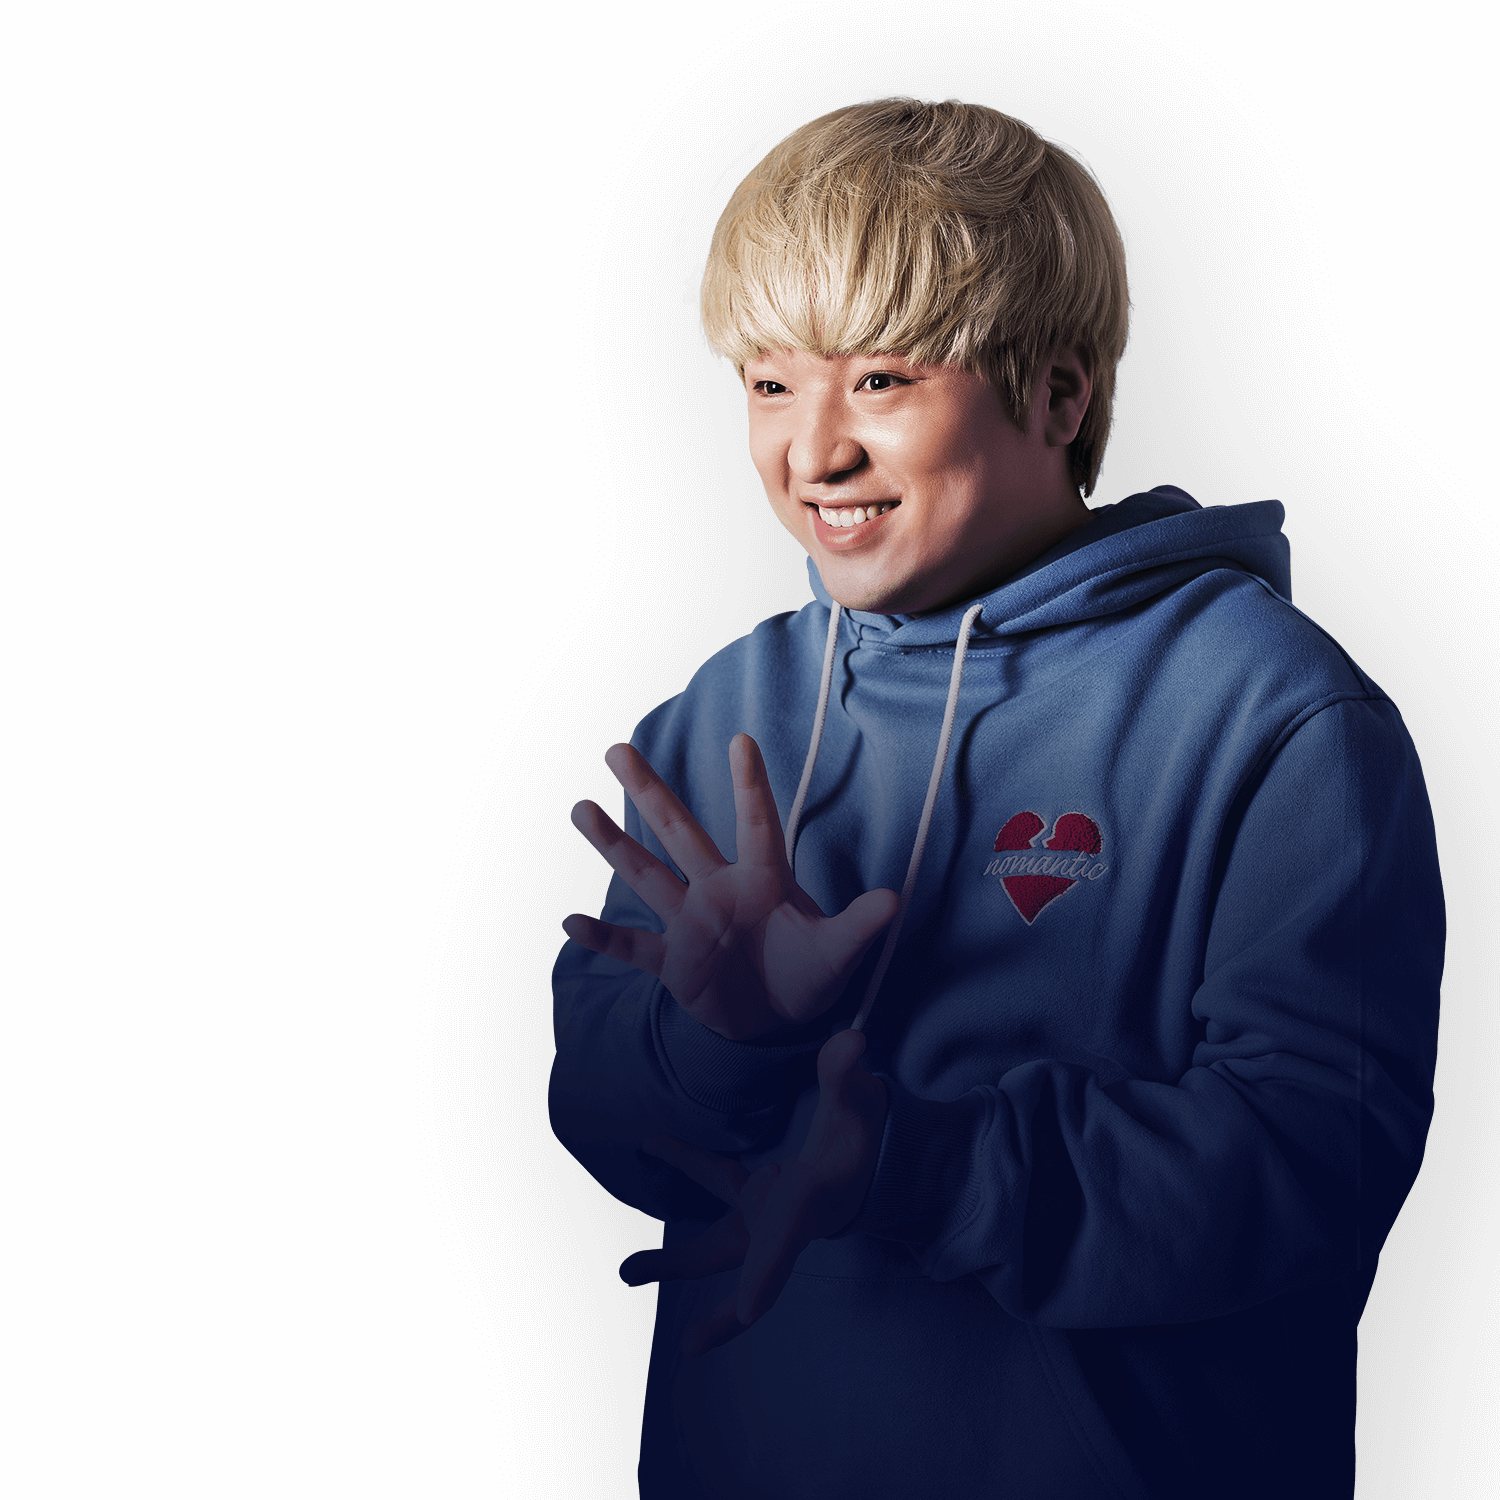
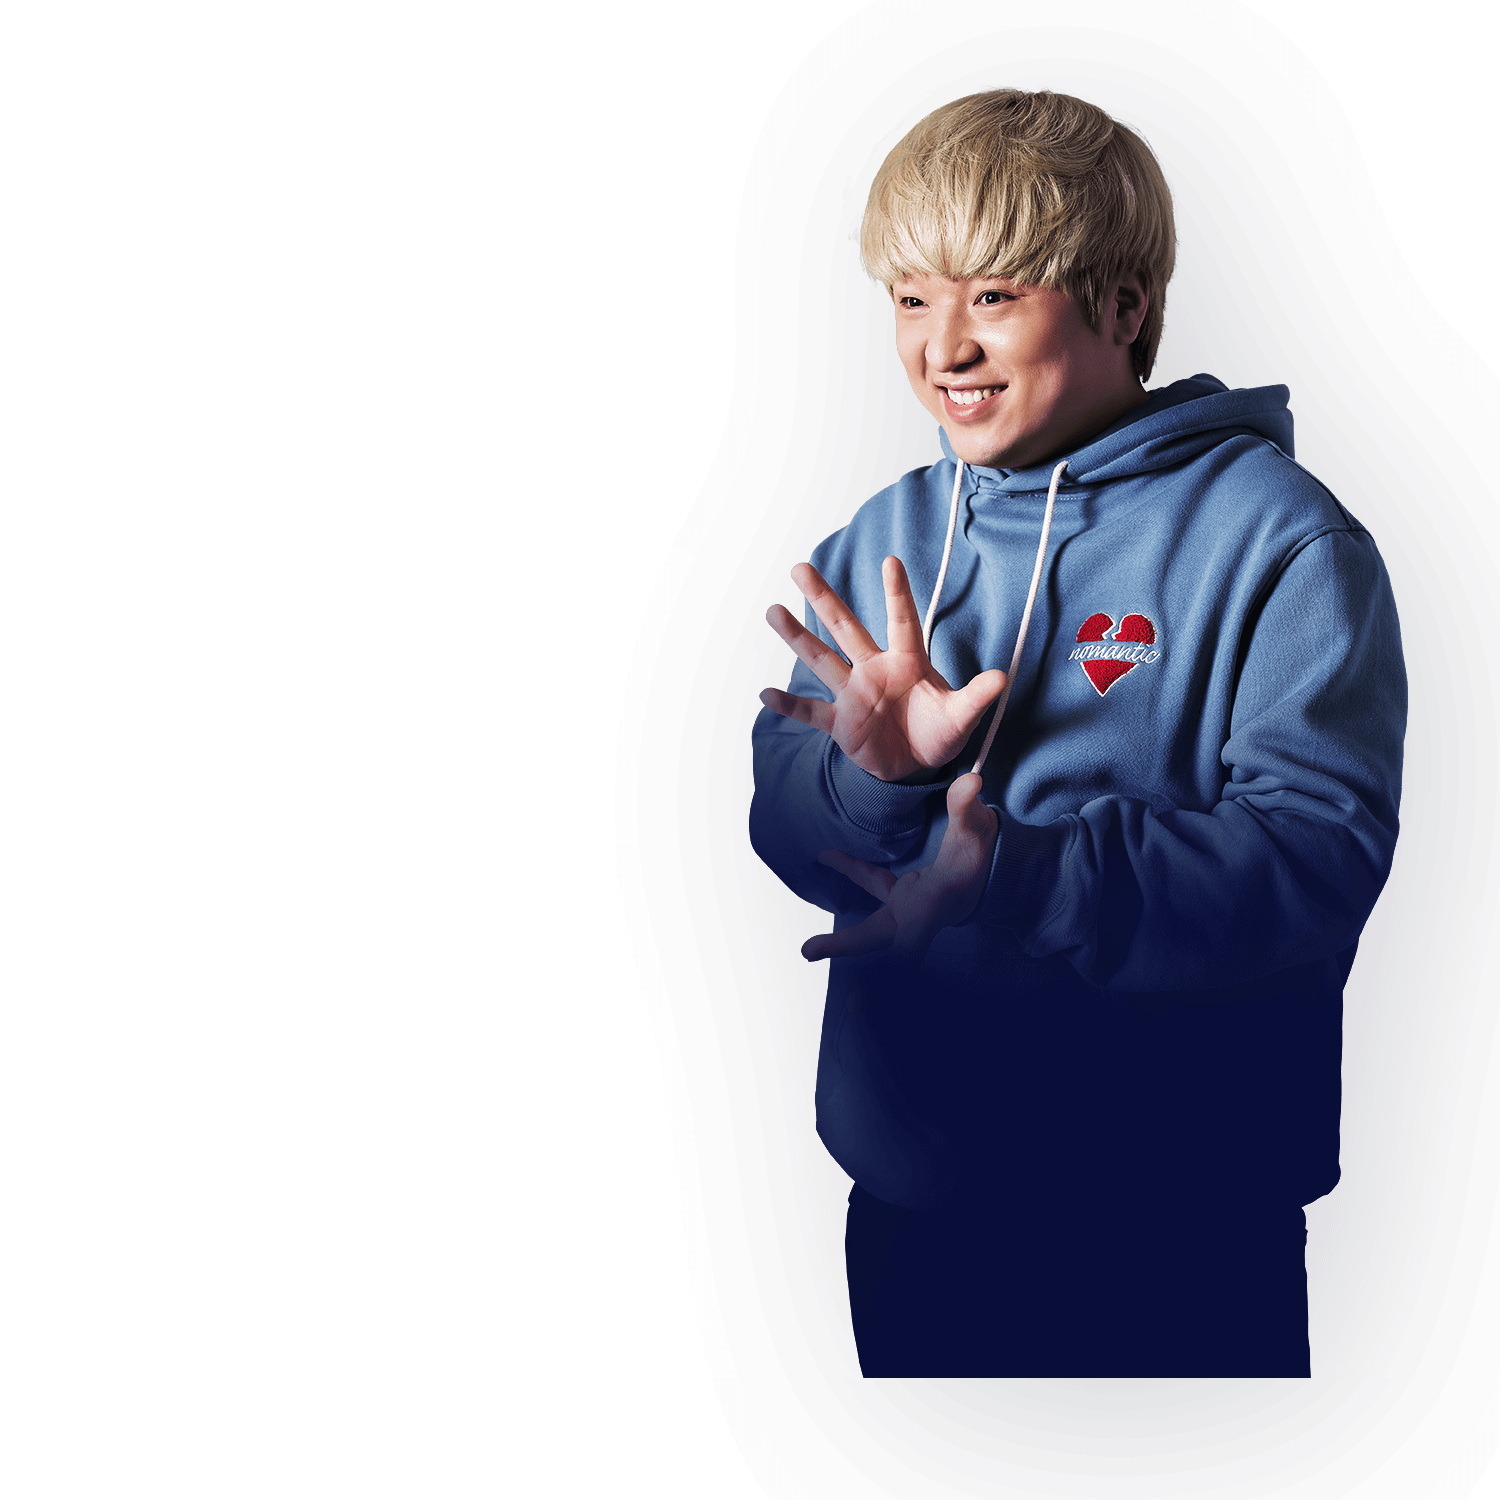
mo추가

diff --git a/css/common-mo.css b/css/common-mo.css
@@ -14,7 +14,7 @@ table caption {overflow: hidden; width: 0; height: 0;}
 i[class^="fa"] {position: relative; display: inline-block; vertical-align: middle; overflow: hidden;}
 i[class^="fa"] span {position: absolute; left: -9999px;}
 .ir-hidden {position: absolute; left: -9999px;}
-.mobile {display: none !important;}
+.mobile {display: block !important;}
 br.only-m {content: '';}
 br.only-m::after {content: '\00a0';}
 @import url('https://fonts.googleapis.com/css2?family=Noto+Sans+KR:wght@100;300;400;500;700;900&display=swap');
@@ -29,13 +29,14 @@ body {font-family: 'NotoSansKR', sans-serif; font-weight: 900; font-size: 16px; 
 .inner-wrap {padding: 0 8.33333vw;}
 .flex-contain {display: flex;}
 .block-mo{ display: block;}
-.bg-wrap {background-color: #2133b5;  position: relative;}
+.bg-wrap {background-color: #2133b5;  position: relative; overflow: hidden;}
 .content-tit{ padding-bottom: 100px;}
 
 #header {position: absolute; top: 0; left: 50%; transform: translate(-50%, 0);  width: 100%; z-index: 999; }
 #header .flex-contain {justify-content: space-between; align-items: center; padding-top: 20px;}
 #header .logo-wrap {width: 160px;}
 #header .gnb-wrap{display: none;}
+#header .gnb-wrap.on {display: block; width: 100vw; height: 100%; min-height: 100vh; background-color: #000; position: absolute; top: 0; left: 0;}
 #header .gnb-wrap > ul {display: block;}
 #header .gnb-wrap .top-gnb > li {font-size: 12px;}
 #header .gnb-wrap .top-gnb > li:not(:last-child) {padding-right: 20px;}
@@ -44,39 +45,53 @@ body {font-family: 'NotoSansKR', sans-serif; font-weight: 900; font-size: 16px; 
 #header .gnb-wrap .main-gnb > li > a {padding: 5px;}
 #header .gnb-wrap .main-gnb > li:hover  > a{background-color: #fff; color: #1a2939;}
 #header .gnb-wrap .main-gnb > li > ul {display: none;}
-#header .menu-mo {font-size: 50px;}
+#header .menu-mo {font-size: 3x0px;}
 
 
 #main .content-wrap {position: relative;}
 #main .bg-deco-red {position: absolute; width: 0; height: 0; border-style: solid; border-width: 100px 200px 0 0; border-color: #d03251 transparent transparent transparent; }
-#main .content-wrap > ul.slick-wrap {margin-bottom: 150px;}
-#main .content-wrap > ul.slick-wrap > li { padding: 200px 0 100px; position: relative; display: none;}
-#main .content-wrap > ul.slick-wrap > li:first-child {display: block;}
-#main .content-wrap > ul.slick-wrap > li .slick-txt-wrap {padding-top: 60%; height: 45vw;}
-#main .content-wrap > ul.slick-img-wrap > li {position: absolute; top: 0; right: 0; background-size: 200vw; background-position: right top; width: 100vw; height: 200%; z-index: 0;}
-#main .content-wrap > ul.slick-img-wrap > li:nth-child(1) {background-image: url('../images/slick_02.png');}
-#main .content-wrap > ul.slick-img-wrap > li:nth-child(2) {background-image: url('../images/slick_01.png');}
-#main .content-wrap > ul.slick-img-wrap > li:nth-child(3) {background-image: url('../images/slick_03_19.png'); background-position-x: center;}
+#main .bg-deco-blue {position: absolute; width: 0; height: 0; bottom: 0; right: 0; border-style: solid; border-width: 0 0 100px 200px; border-color: transparent transparent #2133b5 transparent;}
+#main .content-wrap > ul.slick-txt-wrap {margin-bottom: 150px;}
+#main .content-wrap > ul.slick-img-wrap > li.on {opacity: 1; transform: translate(0, 0) scale3d(1, 1, 1);; transition: transform .75s 0s cubic-bezier(0.165, 0.84, 0.44, 1),opacity .4s 0s;}
+#main .content-wrap > ul.slick-img-wrap > li.off {opacity: 0; transform: translate(10%, -5%) scale3d(1.15, 1.1, 15);; transition: transform .4s 0s cubic-bezier(0.445, 0.05, 0.55, 0.95),opacity .2s 0s;}
+#main .content-wrap > ul.slick-img-wrap > li {position: absolute; top: 0; right: 0; background-size: auto 80%; background-repeat: no-repeat; background-position: top center; width: 100vw; height: 1000px; z-index: 0;  overflow: hidden;}
+#main .content-wrap > ul.slick-img-wrap > li:nth-child(1) {background-image: url('../images/slick_02_mo.png');}
+#main .content-wrap > ul.slick-img-wrap > li:nth-child(2) {background-image: url('../images/slick_01_mo.png');}
+#main .content-wrap > ul.slick-img-wrap > li:nth-child(3) {background-image: url('../images/slick_03_mo.png');}
+#main .content-wrap > ul.slick-txt-wrap {position: relative; padding: 200px 0 100px; height: 45vw;}
+#main .content-wrap > ul.slick-txt-wrap > li { position: absolute; top: 300px; left: 10%; }
+#main .content-wrap > ul.slick-txt-wrap > li > .inner-wrap{height: auto; z-index: 1;}
 
+#main .content-wrap > ul.slick-txt-wrap > li.on > .inner-wrap .tit-txt{opacity: 1; transform: translateX(0%); transition: opacity 0.3s .25s ease-out, transform .65s 0s cubic-bezier(0.55, 0.01, 0.04, 1);}
+#main .content-wrap > ul.slick-txt-wrap > li.on > .inner-wrap .tit-more{opacity: 1; transform: translateX(0%); transition: opacity 0.3s .35s ease-out,transform .65s .1s cubic-bezier(0.55, 0.01, 0.04, 1);}
+#main .content-wrap > ul.slick-txt-wrap > li.on > .inner-wrap .btn-wrap{opacity: 1; transform: translateX(0%); transition: opacity 0.3s .45s ease-out, transform .65s .2s cubic-bezier(0.55, 0.01, 0.04, 1);}
+#main .content-wrap > ul.slick-txt-wrap > li.off > .inner-wrap .tit-txt{opacity: 0; transform: translateX(30%); }
+#main .content-wrap > ul.slick-txt-wrap > li.off > .inner-wrap .tit-more{opacity: 0; transform: translateX(30%); }
+#main .content-wrap > ul.slick-txt-wrap > li.off > .inner-wrap .btn-wrap{opacity: 0; transform: translateX(50%); }
 #main .content-wrap .tit-txt {position: relative; font-size: 8.75vw; color: #e3114e; letter-spacing: -0.02em; text-transform: uppercase; line-height: 1;}
-#main .content-wrap .tit-more {position: relative;display: block; font-size: 5vw; margin-left: 42px;}
+#main .content-wrap .tit-more {position: relative;display: block; font-size: 5vw; margin-left: 5vw; margin-top: 1vw;}
 #main .content-wrap .btn-wrap {margin-top: 60px; position:relative; z-index: 1;}
 #main .content-wrap .btn-wrap .btn-main-box {border: 1px solid #fff; padding: 3vw 5vw; cursor: pointer; font-size: 4vw;}
 #main .content-wrap .btn-wrap .btn-main-box:hover {background-color: #fff; color: #1a2939;}
 #main .content-wrap .control > a.prev,
 #main .content-wrap .control > a.next {position: absolute; top: 50%; width: 40px; font-size: 30px;}
-#main .content-wrap .control > a.prev {left: 50px;}
+#main .content-wrap .control > a.prev {left: 20px;}
 #main .content-wrap .control > a.prev:hover {transform:translateX(-5px); transition: 0.5s all ease;}
-#main .content-wrap .control > a.next {right: 50px;}
+#main .content-wrap .control > a.next {right: 20px;}
 #main .content-wrap .control > a.next:hover {transform:translateX(5px); transition: 0.5s all ease;}
 
 
 
-#main .tit-box-wrap {overflow: hidden;}
-#main .tit-cnt-txt {font-size: 60px; position: relative;}
-#main .tit-cnt-txt::after{content: ''; display: inline-block; width: 100vw; height: 10px; background-color: #fff; margin-left: 30px; position: absolute; top: 50%; left: 100%; transform: translate(0, -50%);}
-#main .tit-explain {font-size: 3.54167vw; margin-top: 10px; word-break: keep-all;}
-
+#main .tit-box-wrap {overflow: hidden; white-space: nowrap; transform: translate3d(0, 0, 0);}
+#main .tit-box-wrap.on {animation: showing 2s cubic-bezier(0.19, 1, 0.22, 1);}
+#main .tit-box-wrap .tit-cnt-txt {display: inline-block; font-size: 8.75vw; position: relative;  transform: scale3d(1.2, 1, 1);  transform-origin: left;}
+#main .tit-box-wrap.on .tit-cnt-txt {display: inline-block; transform: scale3d(1, 1, 1); transition: transform 0.7s cubic-bezier(0.645, 0.045, 0.355, 1);}
+#main .tit-box-wrap .tit-cnt-txt::after{content: ''; display: inline-block; width: 100vw; height: 10px; background-color: #fff; margin-left: 30px; position: absolute; top: 50%; left: 100%; transform: translate(0, -50%);}
+#main .tit-explain {font-size: 3.5vw; margin-top: 10px;}
+@keyframes showing{
+  0% {width: 0%;}
+  100% {width: 100%;}
+}
 #main .wrapper {position: relative;}
 #main .wrapper .bg-deco-yellow { background-color: #ffc200; position: absolute; width: 100%; height: 70%; top: 0; left: 0; right: 0; transform: skewY(-30deg); transform-origin: top center; }
 #main .wrapper .bg-deco-img {background: url('../images/bottom_bg.jpeg') no-repeat;  position: absolute; width: 100%; height: 50%; top: auto; bottom: 0; left: 0; right: 0; background-position: top; }
@@ -120,26 +135,16 @@ body {font-family: 'NotoSansKR', sans-serif; font-weight: 900; font-size: 16px; 
 #main .black-btn {display: block; width: 100%; padding: 5vw 0; background-color: #1a2939; margin-top: 30px; font-size: 3.54167vw; text-align: center;}
 #main .black-btn:not(:last-child) {margin-right: 20px;}
 
-#main .right-btn {display: none; position: fixed; left: 92%; top: 50%; }
-#main .right-btn .right-float-wrap {position: absolute; left: 0; right: 0; top: 0; bottom: 0; width: 50px; height: 50px; margin: auto;  transform-style: preserve-3d; animation: turn 5s linear infinite;}
-#main .right-btn .right-float-wrap .square {position: absolute; left: 0; right: 0; top: 0; bottom: 0;background-color: rgba(255, 255, 255, 0.1);  color: rgba(255, 255, 255, 0.3); text-align: center;}
-#main .right-btn .right-float-wrap .square:nth-child(1) {transform: rotateY(0deg) translateZ(25px); background-color: #5db4db;}
-#main .right-btn .right-float-wrap .square:nth-child(2) {transform: rotateY(180deg) translateZ(25px);background-color: #5db4db;}
-#main .right-btn .right-float-wrap .square:nth-child(3) {transform: rotateY(-90deg) translateZ(25px);background-color: #4589bd;}
-#main .right-btn .right-float-wrap .square:nth-child(4) {transform: rotateY(90deg) translateZ(25px);  background-color: #4589bd;}
-#main .right-btn .right-float-wrap .square:nth-child(5) {transform: rotateX(90deg) translateZ(25px); background-color: #549fcc;}
-#main .right-btn .right-float-wrap .square:nth-child(6) {transform: rotateX(-90deg) translateZ(25px);  background-color: #549fcc}
-@keyframes turn {
-0% {transform: rotateX(0deg) rotateY(0deg);}
-100% {transform: rotateX(360deg) rotateY(360deg);}
-}
+.right-btn {display: none;}
 
-#main .float-btn-mo {position: fixed; width: 100%; height: 13.54167vw; background-image: url("../images/m_float_btn_bg.jpeg"); background-size: cover; bottom: 0; font-size: 4.16667vw; text-align: center; line-height: 13.54167vw; z-index: 3;}
+
+
+.float-btn-mo {position: fixed; width: 100%; height: 13.5vw; background-image: url("../images/m_float_btn_bg.jpeg"); background-size: cover; bottom: 0; font-size: 4vw; text-align: center; line-height: 13vw; z-index: 3;}
 
 #main .last-wrap {padding-bottom: 100px;}
-#main .top-btn { display: none; width: 60px; height: 60px; border-radius: 60px; background-color: #000; text-align: center; position: fixed; left: 92%; bottom: 10%;}
-#main .top-btn::before {content:'\f106'; font-family: "Font Awesome 5 Free"; position: absolute; top: 10px; left: 50%; transform: translate(-50%, 0);}
-#main .top-btn a {line-height: 80px; display: block; width: 60px; height: 60px;}
+.top-btn { display: none; width: 60px; height: 60px; border-radius: 60px; background-color: #000; text-align: center; position: fixed; left: 92%; bottom: 10%;}
+.top-btn::before {content:'\f106'; font-family: "Font Awesome 5 Free"; position: absolute; top: 10px; left: 50%; transform: translate(-50%, 0);}
+.top-btn a {line-height: 80px; display: block; width: 60px; height: 60px;}
 
 #footer {background-color: #000;}
 #footer .flex-contain{padding: 8.33333vw; justify-content: space-between; align-items: flex-end;}

diff --git a/css/common-pc.css b/css/common-pc.css
@@ -28,7 +28,7 @@ body {font-family: 'NotoSansKR', sans-serif; font-weight: 900; font-size: 16px; 
 
 .inner-wrap {max-width: 980px; margin: 0 auto;}
 .flex-contain {display: flex;}
-.bg-wrap {background-color: #2133b5;  position: relative;}
+.bg-wrap {background-color: #2133b5;  position: relative; overflow: hidden;}
 .content-tit{ padding-bottom: 100px;}
 
 #header {position: absolute; top: 0; left: 50%; transform: translate(-50%, 0);  width: 100%; z-index: 999; }
@@ -39,8 +39,11 @@ body {font-family: 'NotoSansKR', sans-serif; font-weight: 900; font-size: 16px; 
 #header .gnb-wrap .top-gnb > li:not(:last-child) {padding-right: 20px;}
 #header .gnb-wrap .main-gnb > li {padding: 30px 25px; position: relative;}
 #header .gnb-wrap .main-gnb > li:last-child {padding-right: 0;}
-#header .gnb-wrap .main-gnb > li > a {padding: 5px;}
-#header .gnb-wrap .main-gnb > li:hover  > a{background-color: #fff; color: #1a2939;}
+#header .gnb-wrap .main-gnb > li > a {padding: 5px; position: relative; overflow: hidden; display: inline-block; z-index: 5; text-align: center;}
+#header .gnb-wrap .main-gnb > li:hover > a {background-color: #1a2939; color: #1a2939; transition: all 0.2s ease-out; }
+#header .gnb-wrap .main-gnb > li:hover > a:before{ transform: rotate(-30deg) translate3d(0, -75%, 0); transition: transform 0.3s cubic-bezier(0.1, 0.32, 0.39, 0.85); opacity: 1; z-index: -1;}
+#header .gnb-wrap .main-gnb > li > a:before{content: ''; display: block; width: 300%; height: 300%; position: absolute; top: 0; left: 0; background-color: #Fff; transform: rotate(-30deg) translate3d(0, -200%, 0); transform-origin: center bottom; transition: transform 0.3s cubic-bezier(0.1, 0.32, 0.39, 0.85); opacity: 0;}
+#header .gnb-wrap .main-gnb > li:hover > a  > span {color: #1a2939; position: relative; }
 #header .gnb-wrap .main-gnb > li > ul {display: none;}
 #header .gnb-wrap .main-gnb > li:hover > ul {display: flex; position: absolute; top: 80px; left: 30px; width: 50vw; line-height: 16px;}
 #header .gnb-wrap .main-gnb > li > ul > li:not(:first-child) {padding-left: 25px; }
@@ -53,11 +56,11 @@ body {font-family: 'NotoSansKR', sans-serif; font-weight: 900; font-size: 16px; 
 #main .bg-deco-red {position: absolute; width: 0; height: 0; border-style: solid; border-width: 100px 200px 0 0; border-color: #d03251 transparent transparent transparent; }
 #main .bg-deco-blue {position: absolute; width: 0; height: 0; bottom: 0; right: 0; border-style: solid; border-width: 0 0 100px 200px; border-color: transparent transparent #2133b5 transparent;}
 #main .content-wrap > ul.slick-img-wrap > li.on {opacity: 1; transform: translate(0, 0) scale3d(1, 1, 1);; transition: transform .75s 0s cubic-bezier(0.165, 0.84, 0.44, 1),opacity .4s 0s;}
-#main .content-wrap > ul.slick-img-wrap > li.off {opacity: 0; transform: translate(10%, -5%) scale3d(1.15, 1.1, 15);; transition: transform .4s 0s cubic-bezier(0.445, 0.05, 0.55, 0.95),opacity .2s 0s; }
-#main .content-wrap > ul.slick-img-wrap > li {position: absolute; top: 0; right: 0; background-size: cover; background-repeat: no-repeat; background-position-y: 30px; width: 100vw; height: 1000px; z-index: 0;}
+#main .content-wrap > ul.slick-img-wrap > li.off {opacity: 0; transform: translate(10%, -5%) scale3d(1.15, 1.1, 15);; transition: transform .4s 0s cubic-bezier(0.445, 0.05, 0.55, 0.95),opacity .2s 0s;}
+#main .content-wrap > ul.slick-img-wrap > li {position: absolute; top: 0; right: 0; background-size: cover; background-repeat: no-repeat; background-position-y: 30px; width: 100vw; height: 1000px; z-index: 0;  overflow: hidden;}
 #main .content-wrap > ul.slick-img-wrap > li:nth-child(1) {background-image: url('../images/slick_02.png');}
 #main .content-wrap > ul.slick-img-wrap > li:nth-child(2) {background-image: url('../images/slick_01.png');}
-#main .content-wrap > ul.slick-img-wrap > li:nth-child(3) {background-image: url('../images/slick_03_19.png'); background-position-x: 250px;}
+#main .content-wrap > ul.slick-img-wrap > li:nth-child(3) {background-image: url('../images/slick_03.png');}
 #main .content-wrap > ul.slick-txt-wrap {position: relative; padding: 200px 0 100px; height: 45vw;}
 #main .content-wrap > ul.slick-txt-wrap > li { position: absolute; top: 250px; left: 10%; }
 #main .content-wrap > ul.slick-txt-wrap > li > .inner-wrap{height: auto; z-index: 1;}

diff --git a/js/sandbox.js b/js/sandbox.js
@@ -1,5 +1,9 @@
 'use strict';
 
+$('div.menu-mo a').on('click', function() {
+  $('#header .gnb-wrap').toggleClass('on')
+})
+
 setImageSlide('#main .slick-wrap', 1);
 
 function setImageSlide(selector, first) {
@@ -53,7 +57,7 @@ function sqrareCheckScroll() {
   var scrollAmt = $(document).scrollTop();
   if(scrollAmt < 200) {
     $('.right-btn').addClass('stop');
-    $('.right-btn').css({'position': 'absolute', 'top': '45vw'});
+    $('.right-btn').css({'position': 'absolute', 'top': '44.25vw'});
   } else if(scrollAmt >= 200 && scrollAmt < 458) {
     $('.right-btn').removeClass('stop');
   } else {

diff --git a/index.html b/index.html
@@ -59,8 +59,11 @@
                     </li>
                   </ul>
                 </div>  
-                <div class="menu-mo">
-                  <a href="#"><i class="fas fa-bars"></i></a>
+                <div class="menu-mo mobile">
+                  <a href="#">
+                    <i class="fas fa-bars"></i>
+                    <i class="fas fa-times on"></i>
+                  </a>
                 </div>
               </div>
             </div>
